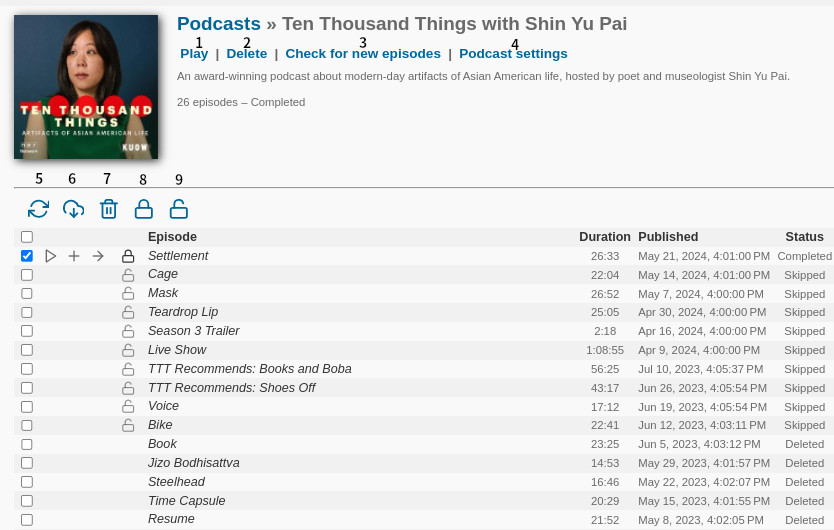
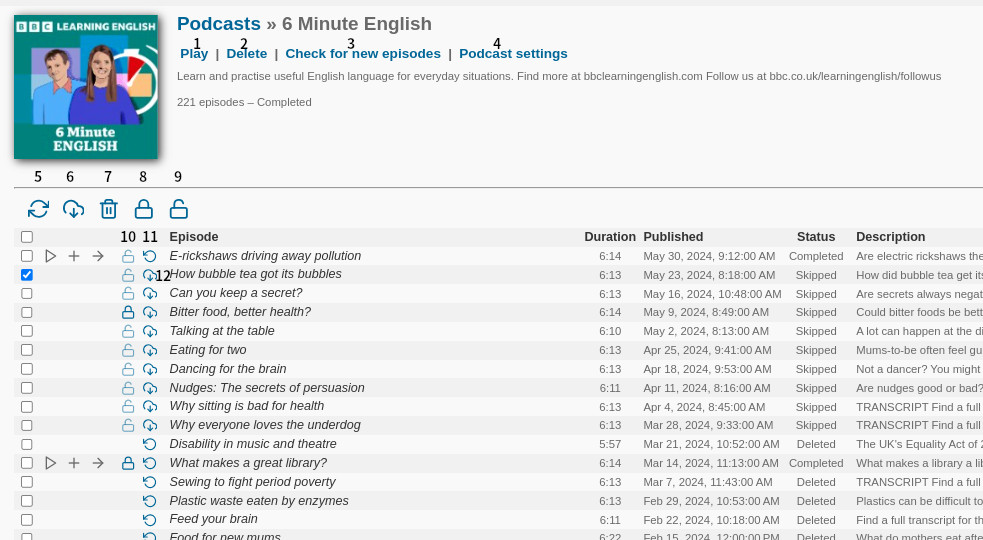
kagemomiji/airsonic-advanced#315 add document for operation of podcast episode

diff --git a/docs/webui/podcast.md b/docs/webui/podcast.md
@@ -15,3 +15,6 @@
 | 7 | Delete selected episodes.  This becomes visible when at least one checkbox is checked. | Podcast |
 | 8 | Lock selected episodes. Locked episodes will be prevented from being deleted and will not be counted in the 'Keep X latest episodes' rule.  This becomes visible when at least one checkbox is checked. | Podcast |
 | 9 | Unlock selected episodes.  This becomes visible when at least one checkbox is checked. | Podcast |
+|10 | Lock/Unlock each episode. Locked episodes will be prevented from being deleted and will not be counted in the 'Keep X latest episodes' rule. | Podcast |
+|11 | Reset episode status to 'New' for re-downloading. If the episode is marked as 'Deleted', it will be locked to prevent deletion. | Podcast |
+|12 | Download each episode. | Podcast |
